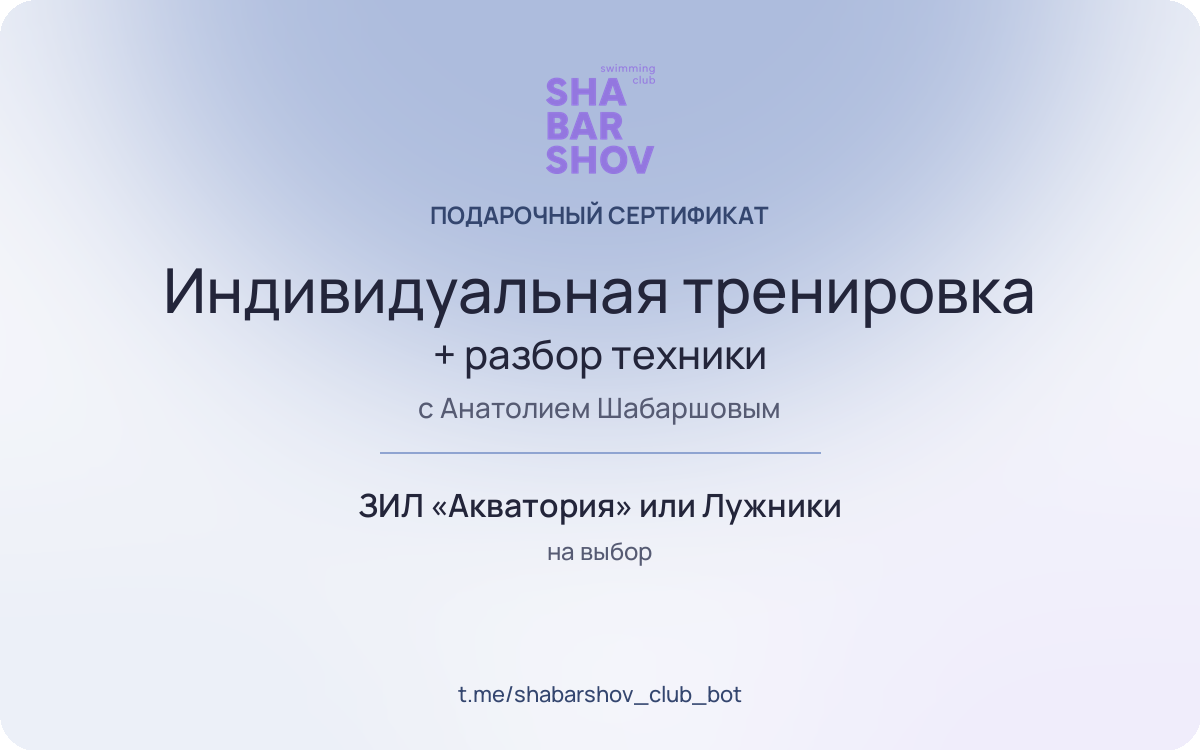
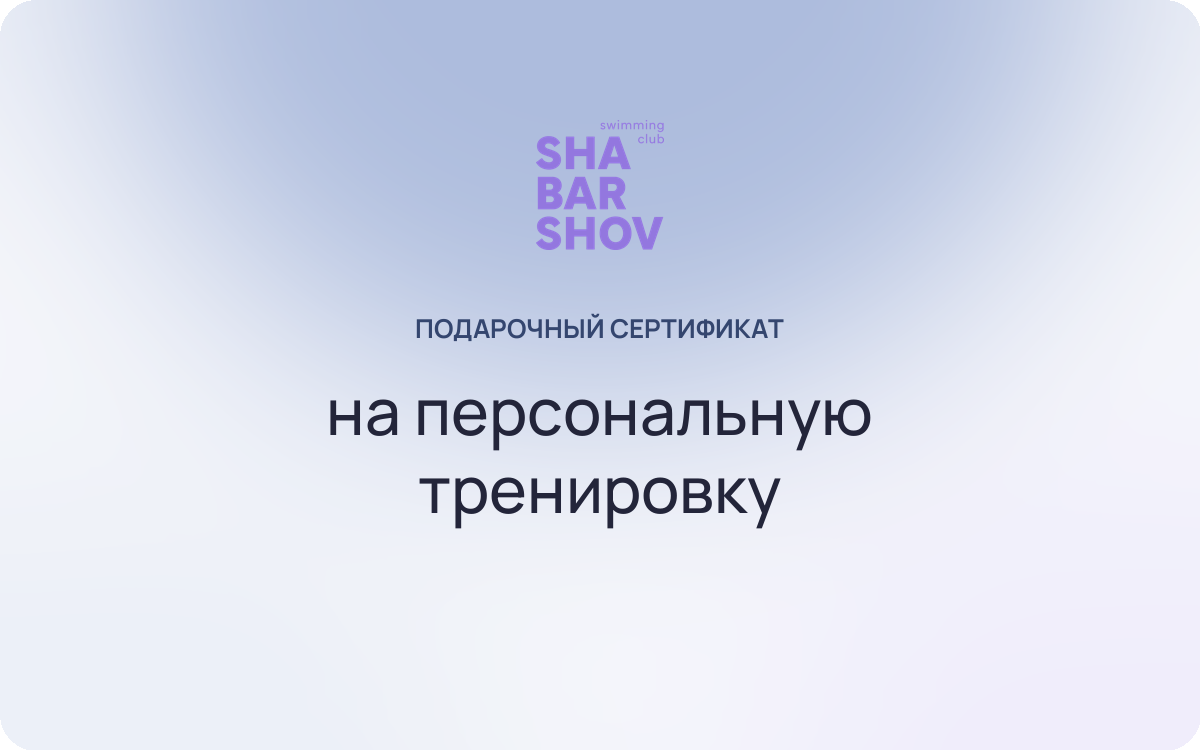
Ответы Анатолия на сайте: 6 000 ₽ и 32 000 ₽, старты и дистанции, проход тренера в цене, ИНН/ОГРНИП; Формула Воды убрана (группы); сертификат коротко; SHABARSHOV светлее и крупнее

diff --git a/Main.dc.html b/Main.dc.html
@@ -96,7 +96,7 @@ html,body{scroll-behavior:auto}
 
 <!-- Блок 1. Первый экран -->
 <section id="top" style="max-width: 1200px; margin: 0 auto; padding: 24px {{pad}} 0; overflow: clip">
-<div aria-hidden="true" ref="{{setLetters}}" style="position: relative; z-index: 2; font-size: min(13.6vw, 172px); font-weight: 500; letter-spacing: -0.035em; line-height: 0.82; color: #8FA4D1; white-space: nowrap; text-align: center; user-select: none; pointer-events: none; will-change: transform">SHABARSHOV</div>
+<div aria-hidden="true" ref="{{setLetters}}" style="position: relative; z-index: 2; font-size: min(14.6vw, 186px); font-weight: 500; letter-spacing: -0.035em; line-height: 0.82; color: #A9BAE0; opacity: 0.75; white-space: nowrap; text-align: center; user-select: none; pointer-events: none; will-change: transform">SHABARSHOV</div>
 <sc-if value="{{desktop}}" hint-placeholder-val="{{ true }}">
 <div style="display: grid; grid-template-columns: repeat(12, minmax(0, 1fr)); gap: 24px; align-items: end">
 <div style="grid-column: 1 / span 7; display: flex; flex-direction: column; align-items: flex-start; gap: 24px; padding-bottom: 32px">
@@ -104,7 +104,7 @@ html,body{scroll-behavior:auto}
 <p data-reveal="1" style="margin: 0; max-width: 46ch; font-size: 19px; color: #565B73">Персональные тренировки в Москве. Первая — со съёмкой и разбором техники.</p>
 <a class="btn" data-cta="1" href="https://t.me/shabarshov_club_bot?start=pers_site" target="_blank" rel="noopener" style="margin-top: 8px">Записаться на первую тренировку<span class="btn-ic"><svg width="18" height="18" viewBox="0 0 24 24" fill="none" stroke="currentColor" style="stroke-width: 2; stroke-linecap: round; stroke-linejoin: round"><path d="M5 12h14M13 6l6 6-6 6"></path></svg></span></a>
 </div>
-<div style="grid-column: 8 / span 5; position: relative; margin-top: calc(min(13.6vw, 172px) * -0.42)">
+<div style="grid-column: 8 / span 5; position: relative; margin-top: calc(min(14.6vw, 186px) * -0.42)">
 <video ref="{{setHeroVideo}}" src="assets/hero.mp4" poster="assets/hero.jpg" autoplay="" muted="" loop="" playsinline="" aria-label="Анатолий плывёт баттерфляем" style="display: block; width: 100%; aspect-ratio: 4 / 5; object-fit: cover; border-radius: 32px; background: #E8EDF7"></video>
 </div>
 </div>
@@ -141,9 +141,9 @@ html,body{scroll-behavior:auto}
 <span style="display: block; aspect-ratio: 4 / 5; overflow: hidden"><img class="ph" src="assets/tile-one.jpg" alt="Тренер в воде рядом с ученицами" style="display: block; width: 100%; height: 100%; object-fit: cover; object-position: center 40%"></span>
 <span style="flex-grow: 1; display: flex; flex-direction: column; gap: 8px; padding: 24px">
 <span style="font-size: 24px; font-weight: 500; line-height: 1.2">Одна тренировка</span>
-<span style="font-size: 16px">Тренер рядом с вами в воде.</span>
+<span style="font-size: 16px">Углублённая: тренер рядом в воде, разбор и видеообзор.</span>
 <span style="margin-top: auto; padding-top: 16px; display: flex; align-items: center; justify-content: space-between; gap: 16px">
-<span style="display: flex; align-items: center; gap: 8px; font-size: 22px; font-weight: 500"><span style="display: inline-block; background: #FFF0BF; color: #5E4500; border: 1px dashed #B8901A; border-radius: 8px; padding: 2px 8px; font-size: 13px; font-weight: 600">[УТОЧНИТЬ у Анатолия]</span> ₽</span>
+<span style="font-size: 26px; font-weight: 500">6 000 ₽</span>
 <span class="btn-ic" style="background: #23253A; color: #FFFFFF"><svg width="18" height="18" viewBox="0 0 24 24" fill="none" stroke="currentColor" style="stroke-width: 2; stroke-linecap: round; stroke-linejoin: round"><path d="M5 12h14M13 6l6 6-6 6"></path></svg></span>
 </span>
 </span>
@@ -151,10 +151,10 @@ html,body{scroll-behavior:auto}
 <a class="tile" data-card="1" href="https://t.me/shabarshov_club_bot?start=pers_site" target="_blank" rel="noopener" style="display: flex; flex-direction: column; border-radius: 28px; overflow: hidden; background: #8FA4D1; color: #23253A; text-decoration: none">
 <span style="display: block; aspect-ratio: 4 / 5; overflow: hidden"><img class="ph" src="assets/tile-pack.jpg" alt="Гребок под водой" style="display: block; width: 100%; height: 100%; object-fit: cover; object-position: center 45%"></span>
 <span style="flex-grow: 1; display: flex; flex-direction: column; gap: 8px; padding: 24px">
-<span style="font-size: 24px; font-weight: 500; line-height: 1.2">Пакет тренировок</span>
-<span style="font-size: 16px">Регулярно, по плану между занятиями. <span style="display: inline-block; background: #FFF0BF; color: #5E4500; border: 1px dashed #B8901A; border-radius: 8px; padding: 0 6px; font-size: 12px; font-weight: 600">[УТОЧНИТЬ: сколько тренировок]</span></span>
+<span style="font-size: 24px; font-weight: 500; line-height: 1.2">Блок из 8 тренировок</span>
+<span style="font-size: 16px">Регулярно, по плану — 4 000 ₽ за тренировку.</span>
 <span style="margin-top: auto; padding-top: 16px; display: flex; align-items: center; justify-content: space-between; gap: 16px">
-<span style="display: flex; align-items: center; gap: 8px; font-size: 22px; font-weight: 500"><span style="display: inline-block; background: #FFF0BF; color: #5E4500; border: 1px dashed #B8901A; border-radius: 8px; padding: 2px 8px; font-size: 13px; font-weight: 600">[УТОЧНИТЬ у Анатолия]</span> ₽</span>
+<span style="font-size: 26px; font-weight: 500">32 000 ₽</span>
 <span class="btn-ic" style="background: #23253A; color: #FFFFFF"><svg width="18" height="18" viewBox="0 0 24 24" fill="none" stroke="currentColor" style="stroke-width: 2; stroke-linecap: round; stroke-linejoin: round"><path d="M5 12h14M13 6l6 6-6 6"></path></svg></span>
 </span>
 </span>
@@ -163,7 +163,7 @@ html,body{scroll-behavior:auto}
 <span style="display: block; aspect-ratio: 4 / 5; overflow: hidden"><img class="ph" src="assets/tile-openwater.jpg" alt="Выход из воды после заплыва" style="display: block; width: 100%; height: 100%; object-fit: cover; object-position: center 30%"></span>
 <span style="flex-grow: 1; display: flex; flex-direction: column; gap: 8px; padding: 24px">
 <span style="font-size: 24px; font-weight: 500; line-height: 1.2">Открытая вода</span>
-<span style="font-size: 16px">Подготовка под ваш заплыв: X‑Waters, SwimCup, Hydra Race. <span style="display: inline-block; background: #FFF0BF; color: #5E4500; border: 1px dashed #B8901A; border-radius: 8px; padding: 0 6px; font-size: 12px; font-weight: 600">[УТОЧНИТЬ у Анатолия: срок подготовки]</span></span>
+<span style="font-size: 16px">Подготовка к X‑Waters, SwimCup, Swimstar, Grand Swim Series, Hydra Swim. Дистанции от 500 м до 25 км.</span>
 <span style="margin-top: auto; padding-top: 16px; display: flex; align-items: center; justify-content: space-between; gap: 16px">
 <span style="display: flex; align-items: center; gap: 8px; font-size: 22px; font-weight: 500"><span style="display: inline-block; background: #FFF0BF; color: #5E4500; border: 1px dashed #B8901A; border-radius: 8px; padding: 2px 8px; font-size: 13px; font-weight: 600">[УТОЧНИТЬ у Анатолия]</span> ₽</span>
 <span class="btn-ic" style="background: #23253A; color: #FFFFFF"><svg width="18" height="18" viewBox="0 0 24 24" fill="none" stroke="currentColor" style="stroke-width: 2; stroke-linecap: round; stroke-linejoin: round"><path d="M5 12h14M13 6l6 6-6 6"></path></svg></span>
@@ -171,7 +171,7 @@ html,body{scroll-behavior:auto}
 </span>
 </a>
 </div>
-<p style="margin: 24px 0 0; font-size: 14px; color: #565B73">Проход в бассейн оплачивается отдельно — за себя и за тренера.</p>
+<p style="margin: 24px 0 0; font-size: 14px; color: #565B73">Проход тренера в бассейн уже в цене. Ваш проход — отдельно, по тарифу бассейна.</p>
 </section>
 
 <!-- Блок 4. Тренер -->
@@ -236,7 +236,7 @@ html,body{scroll-behavior:auto}
 </details>
 <details style="border-bottom: 1px solid #D8DEEC">
 <summary style="cursor: pointer; min-height: 64px; display: flex; align-items: center; justify-content: space-between; gap: 16px; font-size: 18px; font-weight: 500">Бассейн входит в цену?<span class="acc-ic" style="flex: 0 0 auto; font-size: 24px; font-weight: 400; color: #34466F">+</span></summary>
-<p style="margin: 0 0 24px; max-width: 60ch; color: #565B73">Нет, проход оплачивается отдельно по тарифу бассейна — за себя и за тренера.</p>
+<p style="margin: 0 0 24px; max-width: 60ch; color: #565B73">Проход тренера — да, он уже в цене. Ваш проход оплачивается отдельно, по тарифу бассейна.</p>
 </details>
 <details style="border-bottom: 1px solid #D8DEEC">
 <summary style="cursor: pointer; min-height: 64px; display: flex; align-items: center; justify-content: space-between; gap: 16px; font-size: 18px; font-weight: 500">Что взять с собой?<span class="acc-ic" style="flex: 0 0 auto; font-size: 24px; font-weight: 400; color: #34466F">+</span></summary>
@@ -400,12 +400,8 @@ html,body{scroll-behavior:auto}
 <div aria-hidden="{{certBack}}" role="button" tabindex="-1" onClick="{{flipCert}}" style="position: absolute; inset: 0; transform: rotateY(180deg); backface-visibility: hidden; -webkit-backface-visibility: hidden; background: #FFFFFF; border-radius: 3.125% / 5%; box-shadow: 0px 16px 24px rgba(35, 37, 58, 0.16); overflow: hidden; cursor: pointer">
 <div data-lenis-prevent="1" style="height: 100%; box-sizing: border-box; overflow-y: auto; padding: {{certBackPad}}; display: flex; flex-direction: column; justify-content: center; align-items: center; text-align: center; gap: 8px; font-size: {{certBackSize}}; line-height: 1.4; color: #23253A">
 <span style="font-size: 11px; letter-spacing: 0.12em; text-transform: uppercase; color: #565B73">Подарочный сертификат</span>
-<div><b style="font-weight: 600">Что входит:</b> одна индивидуальная тренировка с Анатолием Шабаршовым + разбор техники <span style="display: inline-block; background: #FFF0BF; color: #5E4500; border: 1px dashed #B8901A; border-radius: 8px; padding: 0 6px; font-size: 11px; font-weight: 600">[УТОЧНИТЬ: длительность]</span></div>
-<div><b style="font-weight: 600">Бассейн:</b> ЗИЛ «Акватория» или Лужники — на выбор</div>
-<div><b style="font-weight: 600">Проход в бассейн:</b> <span style="display: inline-block; background: #FFF0BF; color: #5E4500; border: 1px dashed #B8901A; border-radius: 8px; padding: 0 6px; font-size: 11px; font-weight: 600">[УТОЧНИТЬ у Анатолия — входит ли]</span></div>
-<div><b style="font-weight: 600">Срок действия:</b> <span style="display: inline-block; background: #FFF0BF; color: #5E4500; border: 1px dashed #B8901A; border-radius: 8px; padding: 0 6px; font-size: 11px; font-weight: 600">[УТОЧНИТЬ у Анатолия]</span></div>
-<div><b style="font-weight: 600">Стоимость:</b> 5 000 ₽</div>
-<div style="color: #565B73"><b style="font-weight: 600; color: #23253A">Как подарить:</b> выберите бассейн в боте → оплатите 5 000 ₽ → именная карта и видео придут в Telegram → дарите</div>
+<div style="font-size: 1.35em; font-weight: 500; line-height: 1.3">Удобный бассейн:<br>ЗИЛ «Акватория» или Лужники</div>
+<div style="font-size: 1.15em; color: #565B73">Сертификат действует один год</div>
 </div>
 </div>
 </div>
@@ -415,7 +411,7 @@ html,body{scroll-behavior:auto}
 </div>
 <div style="display: flex; flex-direction: column; align-items: flex-start; gap: 16px">
 <h2 data-reveal="1" style="margin: 0; font-size: clamp(28px, 3.06vw, 44px); font-weight: 500; line-height: 1.12; letter-spacing: -0.02em; text-wrap: balance">Подарите тренировку с Анатолием</h2>
-<p style="margin: 0; max-width: 60ch; color: #565B73">Одна индивидуальная тренировка с разбором техники — в ЗИЛ или в Лужниках. Оплата в Telegram-боте, после оплаты именная карта придёт туда же — её можно распечатать или переслать.</p>
+<p style="margin: 0; max-width: 60ch; color: #565B73">Персональная тренировка с Анатолием в ЗИЛ или в Лужниках. Сертификат действует один год, именная карта придёт в Telegram после оплаты.</p>
 <div style="font-size: 32px; font-weight: 500; line-height: 1.1">5 000 ₽</div>
 <div class="{{giftClass}}">
 <img class="gift-card" src="assets/certificate-mini.png" alt="">
@@ -433,7 +429,7 @@ html,body{scroll-behavior:auto}
 <a class="flink" href="https://t.me/shabarshov" target="_blank" rel="noopener">Telegram</a>
 <a class="flink" href="https://instagram.com/shabarshov_" target="_blank" rel="noopener">Instagram</a>
 </div>
-<span style="font-size: 13px; color: #565B73">ИП Шабаршов Анатолий Сергеевич · ИНН <span style="display: inline-block; background: #FFF0BF; color: #5E4500; border: 1px dashed #B8901A; border-radius: 8px; padding: 0 6px; font-size: 12px; font-weight: 600">[УТОЧНИТЬ]</span></span>
+<span style="font-size: 13px; color: #565B73">ИП Шабаршов Анатолий Сергеевич · ИНН 711614136307 · ОГРНИП 322710000047663</span>
 </div>
 </footer>
 
@@ -490,8 +486,7 @@ var STORIES = [
 var POOLS = [
   { id: 'zil', name: 'ЗИЛ «Акватория»', short: 'ЗИЛ', addr: 'Автозаводская ул.,' + NB + '23А' + NB + 'к4', img: 'assets/pool-zil.jpg', left: '49.8%', top: '73.3%', ask: false, route: 'https://yandex.ru/maps/?text=Москва+Автозаводская+улица+23А+к4' },
   { id: 'luzh', name: 'Лужники', short: 'Лужники', addr: '', img: 'assets/pool-luzhniki.jpg', left: '40.7%', top: '66.5%', ask: false, route: '' },
-  { id: 'mgtu', name: 'СК МГТУ им.' + NB + 'Баумана', short: 'МГТУ', addr: 'Госпитальная наб.,' + NB + '4с1', img: 'assets/pool-mgtu.jpg', left: '55.4%', top: '36.5%', ask: true, route: 'https://yandex.ru/maps/?text=Москва+Госпитальная+набережная+4с1' },
-  { id: 'formula', name: '«Формула Воды»', short: 'Формула Воды', addr: 'Мироновская ул.,' + NB + '27с2', img: 'assets/pool-formula.jpg', left: '59.3%', top: '26.7%', ask: true, route: 'https://yandex.ru/maps/?text=Москва+Мироновская+улица+27с2' }
+  { id: 'mgtu', name: 'СК МГТУ им.' + NB + 'Баумана', short: 'МГТУ', addr: 'Госпитальная наб.,' + NB + '4с1', img: 'assets/pool-mgtu.jpg', left: '55.4%', top: '36.5%', ask: true, route: 'https://yandex.ru/maps/?text=Москва+Госпитальная+набережная+4с1' }
 ];
 
 class Component extends DCLogic {
